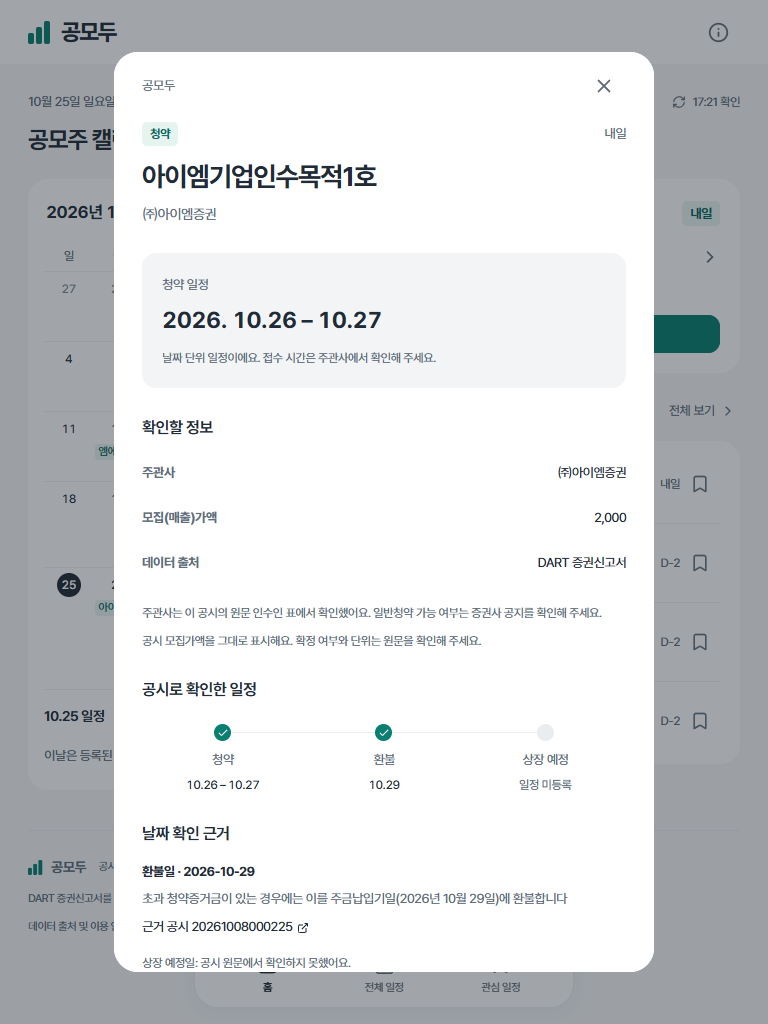
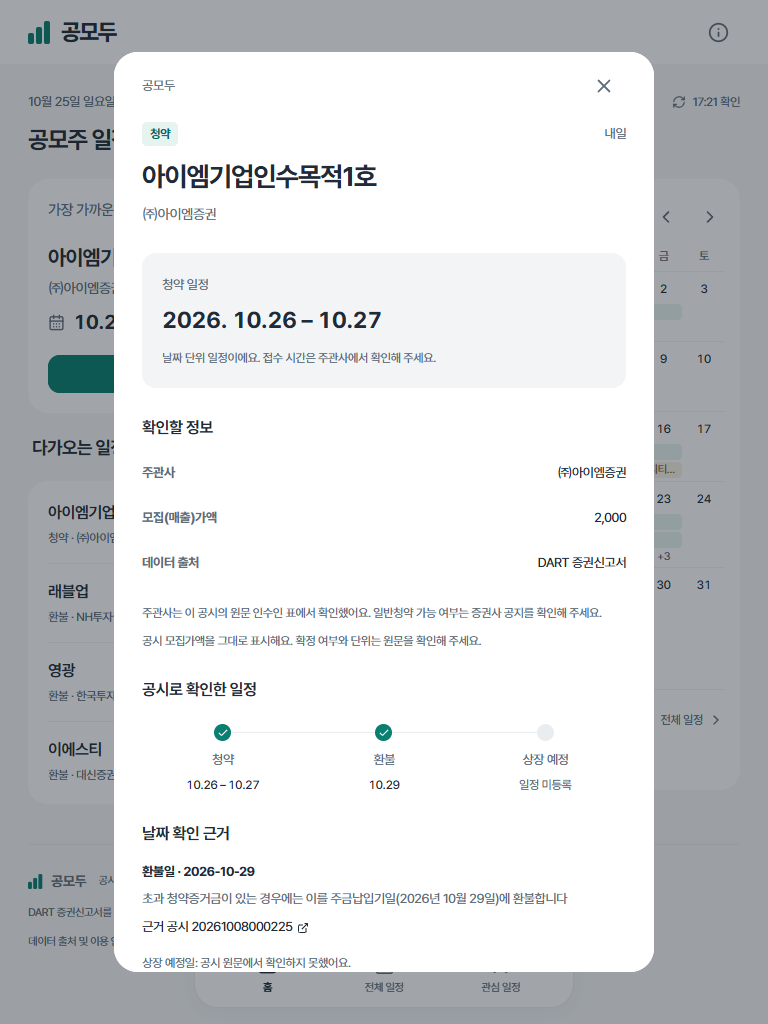
[Feat] 홈 첫 화면에 가장 가까운 청약 표시

diff --git a/src/App.tsx b/src/App.tsx
@@ -171,23 +171,22 @@ export default function App() {
     <header className="mobile-header"><a className="brand" href="#home"><Mark small /><span>공모두</span></a><button className="icon-button" aria-label="공모두 이용 안내" onClick={() => go(`${view}/guide/1`)}><Info size={21} /></button></header>
     <main className={`main-content view-${view}`}>
       <div className="page-topline"><span>{Number(today.slice(5, 7))}월 {Number(today.slice(8))}일 {weekdays[new Date(`${today}T12:00:00Z`).getUTCDay()]}요일</span><button className="refresh-button" onClick={() => void refresh()} disabled={loading} aria-label="일정 새로고침"><RefreshCw size={14} className={loading ? 'spinning' : ''} />{loading ? '연결 중' : data ? `${new Intl.DateTimeFormat('ko-KR', { timeZone: 'Asia/Seoul', hour: '2-digit', minute: '2-digit', hour12: false }).format(new Date(data.fetchedAt))} 확인` : '새로고침'}</button></div>
-      <div className="page-title"><div><h1>{view === 'home' ? '공모주 캘린더' : view === 'calendar' ? '공모주 전체 일정' : '내가 모아둔 관심 일정'}</h1><p>{view === 'home' ? '청약부터 환불까지, 날짜로 확인해요.' : view === 'calendar' ? '날짜를 누르면 그날의 일정을 볼 수 있어요.' : '중요한 날짜를 저장하고 다시 확인해요.'}</p></div>{view === 'calendar' && <button className="secondary-button today-button" onClick={() => selectDate(today)}>오늘</button>}</div>
+      <div className="page-title"><div><h1>{view === 'home' ? '공모주 일정' : view === 'calendar' ? '공모주 전체 일정' : '내가 모아둔 관심 일정'}</h1><p>{view === 'home' ? '청약부터 환불까지, 날짜로 확인해요.' : view === 'calendar' ? '날짜를 누르면 그날의 일정을 볼 수 있어요.' : '중요한 날짜를 저장하고 다시 확인해요.'}</p></div>{view === 'calendar' && <button className="secondary-button today-button" onClick={() => selectDate(today)}>오늘</button>}</div>
       {(error || data?.stale) && <div className="notice" role="alert"><Info size={18} /><span>{error || 'DART에 잠시 연결할 수 없어 마지막으로 받은 일정을 보여드려요.'}{data && ` 마지막 확인: ${new Date(data.fetchedAt).toLocaleString('ko-KR', { timeZone: 'Asia/Seoul' })}`}</span><button onClick={() => void refresh()} disabled={loading}>다시 시도</button></div>}
       {!!data?.events.filter(event => !event.broker && event.end > today).length && <div className="notice" role="status"><Info size={18} /><span>주관사 확인이 필요한 일정이 {data.events.filter(event => !event.broker && event.end > today).length}개 있어요. 해당 일정의 상세에서 공시 원문을 확인해 주세요.</span></div>}
       {(loading || errorCode === 'DART_SYNCING') && !data ? <div className="loading-grid" aria-busy="true" aria-label="공모주 일정을 불러오고 있어요"><div className="skeleton main-skeleton" /><div className="skeleton calendar-skeleton" /><p>DART 공시에서 청약 일정을 확인하고 있어요</p></div> : !data && error ? <Empty title="공시 데이터에 다시 연결해 주세요" text="연결 후 공모주 일정을 확인할 수 있어요." action={<Button onClick={() => void refresh()}>다시 불러오기</Button>} /> : <>
-      {view === 'home' && <div className="home-layout calendar-first">
+      {view === 'home' && <div className="home-layout subscription-first">
+          <section className="featured-panel panel"><div className="section-heading"><h2>가장 가까운 청약</h2>{featured && <span className="status-badge">{statusLabel(featured, today)}</span>}</div>{featured ? <>
+            <button className="featured-company" onClick={() => open(featured)}>{featured.company}<ChevronRight size={20} /></button><p className="featured-broker">{featured.broker || '주관사 원문 확인'}</p>
+            <p className="featured-date-compact"><CalendarDays size={17} /><strong>{dateRange(featured)}</strong></p>
+            <Button size="medium" display="full" onClick={() => open(featured)}>청약 일정 자세히 보기</Button>
+          </> : <Empty title="새로운 청약을 기다리고 있어요" text="이전 기록은 전체 일정에서 확인해 보세요." />}</section>
         <section className="panel calendar-panel home-calendar" aria-label="홈 공모주 캘린더">
           <Calendar month={month} selected={selected} events={events} today={today} onSelect={selectDate} onMonth={moveMonth} overview />
           <div className="home-day-heading"><h3>{shortDate(selected)} 일정</h3><button className="text-button" onClick={() => { setCalendarMode('month'); go('calendar'); }}>전체 일정 <ChevronRight size={16} /></button></div>
           <div className="home-day-list">{events.filter(e => includesDate(e, selected)).length ? events.filter(e => includesDate(e, selected)).map(e => row(e, false)) : <p className="home-day-empty">이날은 등록된 일정이 없어요.</p>}</div>
         </section>
-        <div className="home-primary">
-          <section className="featured-panel panel"><div className="section-heading"><h2>가장 가까운 청약</h2>{featured && <span className="status-badge">{statusLabel(featured, today)}</span>}</div>{featured ? <>
-            <button className="featured-company" onClick={() => open(featured)}>{featured.company}<ChevronRight size={20} /></button><p className="featured-broker">{featured.broker || '주관사 원문 확인'} · {dateRange(featured)}</p>
-            <Button size="medium" display="full" onClick={() => open(featured)}>청약 일정 자세히 보기</Button>
-          </> : <Empty title="새로운 청약을 기다리고 있어요" text="이전 기록은 전체 일정에서 확인해 보세요." />}</section>
           <section className="upcoming-section"><div className="section-heading"><h2>다가오는 일정 <span className="heading-count">{upcoming.length}</span></h2><button className="text-button" onClick={() => { setCalendarMode('list'); go('calendar'); }}>전체 보기 <ChevronRight size={16} /></button></div><div className="panel event-list">{upcoming.length ? upcoming.slice(0, 4).map(e => row(e)) : <Empty title="예정된 일정이 아직 없어요" text="전체 일정에서 이전 기록을 확인할 수 있어요." />}</div></section>
-        </div>
       </div>}
       {view === 'calendar' && <>
         <div className="calendar-toolbar"><label className="search-field"><Search size={19} /><input aria-label="종목명 또는 증권사 검색" placeholder="종목명, 증권사로 검색해 보세요" value={query} onChange={e => setQuery(e.target.value)} />{query && <button aria-label="검색어 지우기" onClick={() => setQuery('')}><X size={16} /></button>}</label><div className="segmented" aria-label="일정 보기 방식"><button className={calendarMode === 'month' ? 'selected' : ''} aria-pressed={calendarMode === 'month'} onClick={() => setCalendarMode('month')}>달력</button><button className={calendarMode === 'list' ? 'selected' : ''} aria-pressed={calendarMode === 'list'} onClick={() => setCalendarMode('list')}>목록</button></div></div>

diff --git a/src/styles.css b/src/styles.css
@@ -71,16 +71,16 @@ strong { font-weight: 650; }
 .page-title { display: flex; justify-content: space-between; align-items: center; gap: 16px; margin: 16px 0 30px; }
 .page-title p { margin-top: 8px; font-size: 15px; color: var(--muted); }
 .mobile-break { display: none; }
-/* The month is the main action: first in DOM and in the mobile reading order. */
+/* Lead with the next subscription; the calendar follows before the long event list. */
 .view-home .page-title { margin: 6px 0 16px; }
 .view-home .page-title h1 { font-size: 24px; line-height: 1.3; }
 .view-home .page-title p { display: none; }
-.calendar-first .home-calendar { padding: 16px 16px 12px; }
-.calendar-first .featured-panel { padding: 20px; }
-.calendar-first .featured-company { margin-top: 14px; font-size: 21px; }
-.calendar-first .featured-broker { margin-bottom: 16px; }
-.calendar-first .featured-panel .section-heading { min-height: 24px; }
-.calendar-first .event-open { min-height: 76px; padding: 16px 0; }
+.subscription-first .home-calendar { padding: 16px 16px 12px; }
+.subscription-first .featured-panel { padding: 20px; }
+.subscription-first .featured-company { margin-top: 14px; font-size: 21px; }
+.subscription-first .featured-broker { margin-bottom: 16px; }
+.subscription-first .featured-panel .section-heading { min-height: 24px; }
+.subscription-first .event-open { min-height: 76px; padding: 16px 0; }
 .overview .calendar-heading { margin: 0 2px 8px; }
 .overview .calendar-weekdays { margin-bottom: 6px; }
 .overview .calendar-day { min-height: 66px; padding: 5px 0 3px; gap: 3px; }
@@ -331,8 +331,8 @@ dd { margin: 0; text-align: right; overflow-wrap: anywhere; }
   .view-home .page-title h1 { font-size: 22px; }
   .main-content.view-home { padding-top: 8px; }
   .view-home .page-topline,.view-home .refresh-button { min-height: 28px; }
-  .calendar-first .home-calendar { margin: 0 -4px; padding: 12px 8px 8px; }
-  .calendar-first .home-day-heading,.calendar-first .home-day-list { padding-left: 8px; padding-right: 8px; }
+  .subscription-first .home-calendar { margin: 0 -4px; padding: 12px 8px 8px; }
+  .subscription-first .home-day-heading,.subscription-first .home-day-list { padding-left: 8px; padding-right: 8px; }
   .mobile-break { display: initial; }
   .home-layout { grid-template-columns: minmax(0, 1fr); gap: 24px; }
   .home-primary,.home-secondary { gap: 24px; }
@@ -464,3 +464,15 @@ dd { margin: 0; text-align: right; overflow-wrap: anywhere; }
 @media(max-width:800px) { .comparison-picker > div { grid-template-columns:repeat(2,minmax(0,1fr)); } .scenario-form { grid-template-columns:repeat(2,minmax(0,1fr)); } .scenario-results { grid-template-columns:1fr; } }
 @media(max-width:600px) { .competition-toolbar { align-items:flex-start; } .competition-toolbar strong { font-size:16px; } .competition-toolbar p { font-size:13px; } .competition-toolbar .refresh-button { flex:none; font-size:12px; } .comparison-picker > div { grid-template-columns:1fr; } .comparison-table { min-width:calc(128px + var(--comparison-cols) * 190px); } .comparison-label-col { width:128px; } .comparison-table th:first-child { width:128px; padding:14px 12px; } .comparison-table td { padding:14px 12px; } .scenario-panel { padding:20px; } .scenario-panel > p { font-size:13px; } .scenario-panel .quiet-label { width:100%; } .scenario-form { gap:18px 12px; } .scenario-form label { font-size:12px; } }
 @media (prefers-reduced-motion: reduce) { *,*::before,*::after { animation: none !important; scroll-behavior: auto !important; } }
+
+.subscription-first { grid-template-areas: "featured calendar" "upcoming calendar"; }
+.subscription-first .featured-panel { grid-area: featured; }
+.subscription-first .home-calendar { grid-area: calendar; }
+.subscription-first .upcoming-section { grid-area: upcoming; }
+.subscription-first .featured-broker { margin-bottom: 8px; }
+.featured-date-compact { display:flex; align-items:center; gap:8px; color:var(--text); margin-bottom:18px; }
+.featured-date-compact svg { color:var(--muted); }
+.featured-date-compact strong { font-size:20px; font-variant-numeric:tabular-nums; }
+@media (max-width:600px) {
+  .home-layout.subscription-first { grid-template-areas:"featured" "calendar" "upcoming"; gap:20px; }
+}

diff --git a/tests/browser/flows.spec.ts b/tests/browser/flows.spec.ts
@@ -21,7 +21,7 @@ test('홈 캘린더 → 상세 → 저장 → 새로고침 → 관심 일정', a
   await setup(page);
   const errors: string[] = []; page.on('pageerror', e => errors.push(e.message));
   await page.goto('/');
-  await expect(page.getByRole('heading', { level: 1 })).toHaveText('공모주 캘린더');
+  await expect(page.getByRole('heading', { level: 1 })).toHaveText('공모주 일정');
   await page.getByRole('button', { name: '청약 일정 자세히 보기' }).click();
   const dialog = page.getByRole('dialog');
   await expect(dialog.getByRole('heading', { name: '한빛테크', exact: true })).toBeVisible();
@@ -125,7 +125,7 @@ test('보류한 경쟁률 화면과 수집 요청은 출시 앱에 노출하지 
   const requests: string[] = [];
   page.on('request', request => { if (request.url().includes('/api/competition')) requests.push(request.url()); });
   await page.goto('/#competition');
-  await expect(page.getByRole('heading', { level: 1 })).toHaveText('공모주 캘린더');
+  await expect(page.getByRole('heading', { level: 1 })).toHaveText('공모주 일정');
   await expect(page.getByRole('link', { name: '청약 비교', exact: true })).toHaveCount(0);
   await page.getByRole('button', { name: '청약 일정 자세히 보기' }).click();
   await expect(page.locator('.competition-snippet')).toHaveCount(0);
@@ -146,15 +146,17 @@ test('DART 원문 환불 근거와 출처를 상세에서 확인하고 내보내
 });
 
 
-test('홈에서 달력이 첫 화면에 보이고 날짜 선택으로 해당 일정을 확인', async ({ page }) => {
+test('홈은 가까운 청약을 먼저 보여주고 바로 다음 달력에서 일정을 확인', async ({ page }) => {
   await setup(page); await page.unroute('**/api/schedule');
   await page.route('**/api/schedule', route => route.fulfill({json:{...data,coverage:{from:'2026-04-28',to:'2026-10-25',reviewedReports:31,omittedReports:3,reasons:{summary_unmatched:3}}}}));
   await page.goto('/');
   const calendar=page.getByRole('region',{name:'홈 공모주 캘린더'});
   await expect(calendar).toBeVisible();
   const box=await calendar.locator('.calendar-grid').boundingBox();
-  expect(box!.y).toBeLessThan(240);
-  expect(box!.y+box!.height).toBeLessThan(page.viewportSize()!.height-90);
+  const featured=await page.locator('.featured-panel').boundingBox();
+  expect(featured!.y+featured!.height).toBeLessThan(page.viewportSize()!.height*0.6);
+  if(page.viewportSize()!.width<600) expect(featured!.y).toBeLessThan(box!.y);
+  expect(box!.y).toBeLessThan(page.viewportSize()!.height-100);
   await expect(page.getByText(/일부 공시를 자동으로 해석/)).toHaveCount(0);
   await calendar.getByRole('button',{name:'2026-10-26, 일정 2개',exact:true}).click();
   await expect(calendar.locator('.home-day-list .event-row')).toHaveCount(2);

diff --git a/docs/RELEASE.md b/docs/RELEASE.md
@@ -9,11 +9,11 @@
 - 실제 DART 일정 **113건(청약 61건·환불 52건)**, 상장 예정일 원문 확인 0건입니다. 최근 180일 접수 공시 후보 100건을 검토했습니다. 과거 4개 공모의 주관사가 미확인이며 다가오는 청약의 주관사·가격 누락은 없습니다. 완전한 전체 IPO 목록이라는 의미는 아닙니다.
 - 단위 테스트 35개, 모바일·데스크톱 사용자 흐름 18개, 타입 검사·웹 빌드가 통과했습니다.
 - 실제 HTTPS API 주소를 넣은 `gongmodu.ait`를 생성했고 DART 키가 공개 빌드·스냅샷·번들에 포함되지 않았음을 검사했습니다.
-- 번들 deploymentId: `01a17226-6ddd-73aa-abdc-04590b2ffb92`.
+- 번들 deploymentId: `01a17233-44c2-78a5-aa82-aa6315919921`.
 - 앱인토스 콘솔에 번들을 업로드했습니다. 앱 소개·출시 노트·분류·검색어·600×600 로고와 주요 기능을 입력했습니다.
-- **최종 검토 요청은 아직 완료되지 않았습니다.** 사용자가 초기 버전의 토스앱 실행을 확인했고, 수정 후 제출과 운영자 확인·책임 동의에 승인했습니다. 수정 버전 `20261025-2`의 검토 요청을 시도했으나 콘솔이 “토스앱 테스트를 먼저 진행해주세요”로 차단했습니다. 현재 수정 버전의 QR을 열어 실행 확인을 기다리고 있습니다. 실제 iOS/Android 양쪽의 모든 동작을 검증했다고 표시하지 않습니다.
+- **최종 검토 요청은 아직 완료되지 않았습니다.** 사용자가 초기 버전의 토스앱 실행을 확인했고, 수정 후 제출과 운영자 확인·책임 동의에 승인했습니다. 중간 수정 버전 `20261025-2`의 검토 요청은 “토스앱 테스트를 먼저 진행해주세요”로 차단됐습니다. 이후 홈을 가까운 청약 우선으로 재조정한 최종 번들을 업로드했으며, 새 번들의 토스앱 테스트가 필요합니다. 실제 iOS/Android 양쪽의 모든 동작을 검증했다고 표시하지 않습니다.
 
-실기기 피드백으로 홈 달력을 상단에 배치하고 제목을 한 줄로 줄였으며, 캘린더 파일 내보내기와 공시 해석 누락 배너를 제거했습니다. [외부 일정 대조 검증](DATA-VALIDATION.md)에서 35종목 중 34종목 일치를 확인했고 진코스텍 미포함을 별도로 기록했습니다.
+최종 홈은 가장 가까운 청약, 월간 달력, 다가오는 일정 순서입니다. 제목을 한 줄로 줄였으며, 캘린더 파일 내보내기와 공시 해석 누락 배너를 제거했습니다. [외부 일정 대조 검증](DATA-VALIDATION.md)에서 35종목 중 34종목 일치를 확인했고 진코스텍 미포함을 별도로 기록했습니다.
 
 ## 배포
 

diff --git a/docs/DESIGN-REVIEW.md b/docs/DESIGN-REVIEW.md
@@ -66,3 +66,8 @@
 - 내보내기·토스 파일 저장·내보내기 안내를 제거했고, 기존 관심 저장 키는 보존했어요. 공시 해석 누락 배너를 제거했으며 원문 링크·오류·stale 표시는 유지해요.
 - 프로덕션 빌드의 1440/768/390px 검사에서 FAIL 0개. 11~12px 달력 날짜/종목 라벨 때문에 작은 글씨 비중 경고가 있어요. 달력은 최소 11px을 유지하고 상세에서 전체 종목명을 확인해요. 두 번째 경고는 달력과 우측의 쌓인 패널을 개별 카드로 비교한 높이 차이이며 실제 두 열 전체의 하단은 비슷해요.
 - 35개 데이터 단위 테스트, 18개 모바일/데스크톱 사용자 흐름을 검증해요. 달력의 첫 화면 노출, 날짜 선택, 내보내기 미노출도 포함해요.
+
+
+### 홈의 최종 우선순위 재조정
+
+사용자가 달력이 첫 영역을 차지하니 복잡하다고 피드백해, 가장 가까운 청약을 첫 영역으로 되돌리고 그다음에 달력, 다가오는 일정을 배치했어요. 큰 두 줄 도입 문구·내보내기·누락 배너는 복원하지 않았어요. 화면 질문은 “가장 가까운 청약은 언제, 어느 증권사인가요?”이며 종목명·주관사·청약 날짜와 상세 버튼이 먼저 보입니다. 달력은 긴 목록보다 앞에 유지합니다.

diff --git a/docs/PRODUCT-PLAN.md b/docs/PRODUCT-PLAN.md
@@ -1,4 +1,4 @@
-> 2026-10-25 출시 결정: 앱 이름은 공모두(gongmodu), 실시간 경쟁률·청약 비교·가정 계산은 보류합니다. 현재 범위는 홈 상단의 월간 달력과 DART 공시 기반 일정·관심 저장입니다. 실기기 피드백으로 ICS 내보내기는 제거했습니다. 아래의 확장 기능과 과거 이름 공모아는 기획 이력입니다.
+> 2026-10-25 출시 결정: 앱 이름은 공모두(gongmodu), 실시간 경쟁률·청약 비교·가정 계산은 보류합니다. 홈은 가장 가까운 청약 → 월간 달력 → 다가오는 일정 순서이며, 현재 범위는 DART 공시 기반 일정·관심 저장입니다. 실기기 피드백으로 ICS 내보내기는 제거했습니다. 아래의 확장 기능과 과거 이름 공모아는 기획 이력입니다.
 
 # 공모아: 기능 기획과 UX 설계
 
